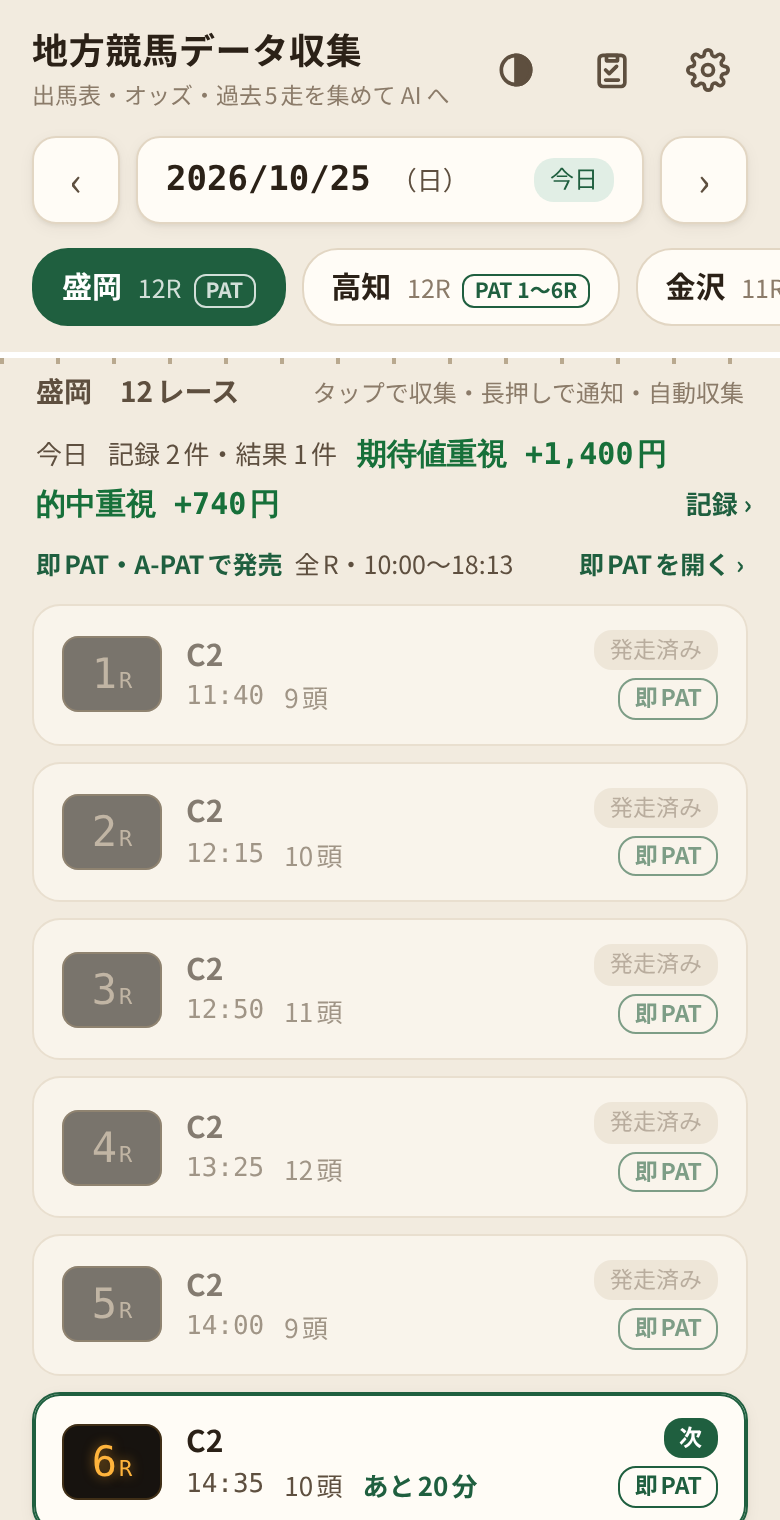
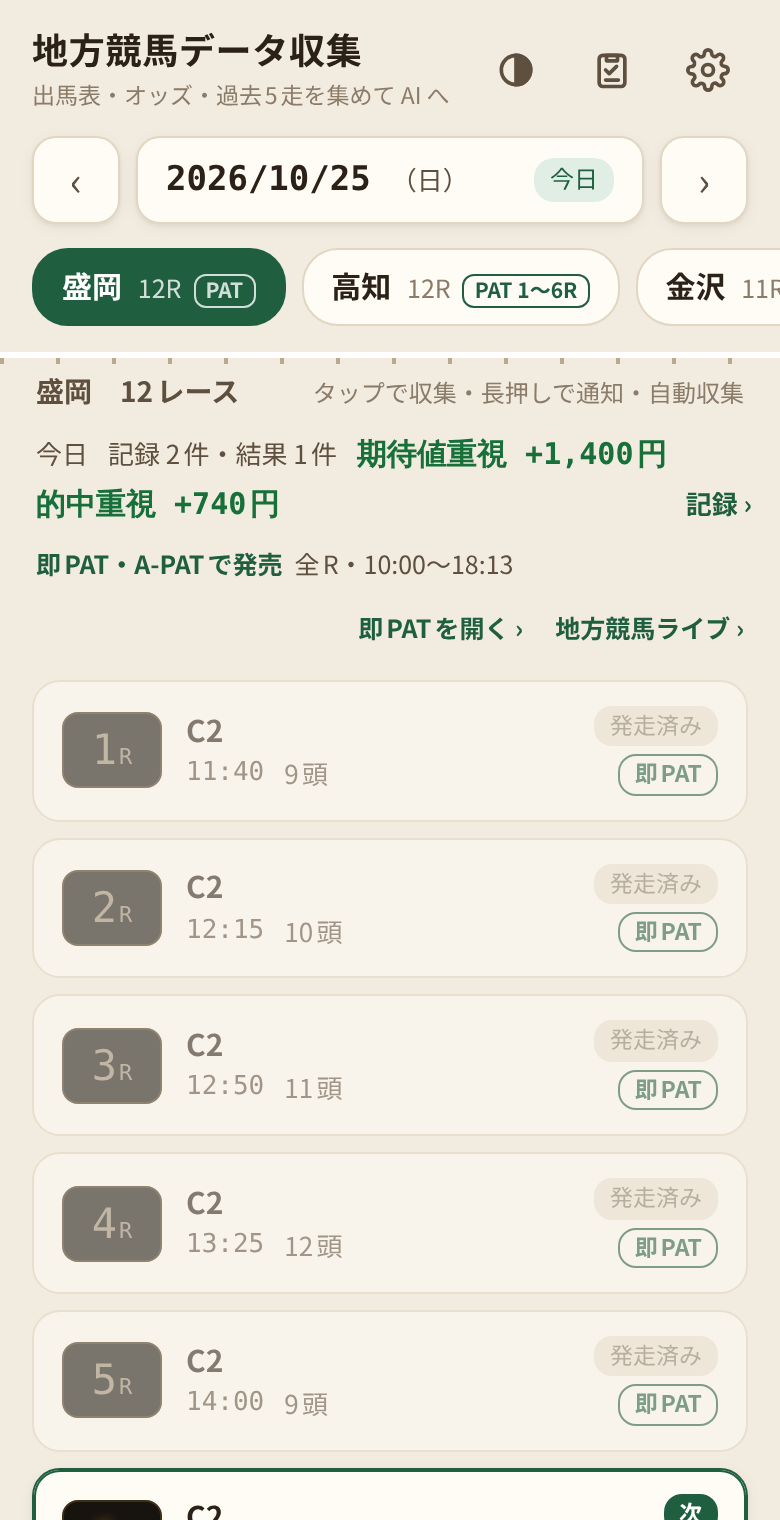
即PATボタンを常に表示・スマホ版URLに変更、地方競馬ライブへのリンクを追加

diff --git a/android/app/src/main/assets/ui.html b/android/app/src/main/assets/ui.html
@@ -293,7 +293,9 @@ table.past td.place { color: var(--accent); font-weight: 700; }
 .venue .pat { font-size: 10.5px; font-weight: 700; margin-left: 6px; padding: 0 5px; border-radius: 6px; border: 1px solid var(--accent); color: var(--accent); }
 .venue[aria-selected="true"] .pat { border-color: var(--accent-ink); color: var(--accent-ink); }
 .pat-line { margin: -2px 2px 10px; font-size: 12.5px; color: var(--ink2); display: flex; flex-wrap: wrap; align-items: baseline; gap: 0 6px; }
-.pat-line .open { margin-left: auto; color: var(--accent); font-weight: 700; white-space: nowrap; }
+.ext-links { margin: -4px 2px 10px; display: flex; justify-content: flex-end; gap: 4px 16px; flex-wrap: wrap; }
+.ext-links button { color: var(--accent); font-weight: 700; font-size: 12.5px; white-space: nowrap; padding: 4px 0; min-height: 32px; }
+.chip.link { border-color: var(--accent); color: var(--accent); font-weight: 700; }
 .send-bar.with-pat { grid-template-columns: 1fr 58px 58px 58px; }
 .pat-line b { color: var(--accent); }
 .pat-line.none { color: var(--muted); }
@@ -634,9 +636,19 @@ function patRace(info, no) {
   if (info.v.from == null) return null;
   return no >= info.v.from && no <= info.v.to;
 }
-// 即PAT・A-PAT で地方競馬を買う入口（地方競馬ネット投票）。レースを指定して開く方法は公開されていないので、入口を開くだけ
-const PAT_URL = "https://n.ipat.jra.go.jp/";
+// 即PAT・A-PAT で地方競馬を買う入口（地方競馬ネット投票）。レースを指定して開く方法は公開されていないので、入口を開くだけ。
+// 即PAT・A-PAT はスマホ版のログイン画面、レース映像は地方競馬ライブ（スマホ版）を開く
+const PAT_URL = "https://n.ipat.jra.go.jp/sp/index.cgi";
+const LIVE_URL = "https://keiba-lv-st.jp/sp/";
 function openPat() { Native.openUrl(PAT_URL); }
+function openLive() { Native.openUrl(LIVE_URL); }
+/** 「即PATを開く ›」「地方競馬ライブ ›」の行（発売の有無が分からなくても出す） */
+function extLinks() {
+  const p = el("p", "ext-links");
+  const a = el("button", null, "即PATを開く ›"); a.onclick = openPat; p.append(a);
+  const b = el("button", null, "地方競馬ライブ ›"); b.onclick = openLive; p.append(b);
+  return p;
+}
 const patRangeText = (v) => (v.all ? "全R" : v.from != null ? `${v.from}〜${v.to}R` : v.text);
 
 // ===== 開催一覧 =====
@@ -767,13 +779,14 @@ function renderRaces() {
   if (pi.status === "sold") {
     const pl = el("p", "pat-line");
     pl.append(el("b", null, `${PAT_KIND[pi.kind]}で発売`), el("span", null, `${patRangeText(pi.v)}${pi.time ? `・${pi.time}` : ""}`));
-    const op = el("button", "open", "即PATを開く ›"); op.onclick = openPat; pl.append(op);
     area.append(pl);
   } else if (pi.status === "none") {
     area.append(el("p", "pat-line none", `この日の${v.name}は、即PAT・A-PAT での発売はありません`));
   } else if (pi.status === "failed") {
     area.append(el("p", "pat-line none", "即PAT・A-PAT の発売カレンダーを読めませんでした（引っ張って読み直せます）"));
   }
+  // 発売カレンダーを読めていなくても、投票とレース映像の入口はいつも出す
+  area.append(extLinks());
 
   const list = el("div", "races");
   v.races.forEach((r, i) => {
@@ -927,6 +940,7 @@ function renderResult() {
   const pi = patInfo(state.date, venue), onPat = patRace(pi, +race.no);
   if (onPat === true) chips.append(el("span", "chip pat", `${PAT_KIND[pi.kind]}で発売`));
   else if (onPat === false) chips.append(el("span", "chip", "即PAT・A-PAT は発売なし"));
+  const live = el("button", "chip link", "地方競馬ライブ ›"); live.onclick = openLive; chips.append(live);
   body.append(chips);
 
   // 発走までの時間と、オッズを取ってからの時間
@@ -1088,8 +1102,8 @@ function renderResult() {
   const pick = el("button", "btn secondary sub"); pick.innerHTML = ICON_PICK; pick.append(document.createTextNode("送り先"));
   pick.onclick = () => Native.share(textFor(res), true);
   bar.append(send, copy, pick);
-  // そのレースを即PAT・A-PAT で売っているときだけ、投票の入口を開くボタンを出す
-  if (patRace(patInfo(state.date, venue), +race.no) === true) {
+  // 投票の入口はいつも出す（発売カレンダーが手元にない・競馬場名が合わないときに消えないように）
+  {
     const pat = el("button", "btn secondary sub");
     pat.innerHTML = '<svg viewBox="0 0 24 24" fill="none" stroke="currentColor" stroke-width="2" stroke-linecap="round" stroke-linejoin="round"><rect x="3" y="6" width="18" height="12" rx="2"/><path d="M8 12h8M13 9l3 3-3 3"/></svg>';
     pat.append(document.createTextNode("即PAT"));

diff --git a/android/README.md b/android/README.md
@@ -29,7 +29,8 @@
   - 競馬場のタブに「PAT」（一部だけなら「PAT 1〜6R」）
   - 一覧の上に「即PAT・A-PATで発売」か「即PATのみで発売」と、範囲・発売時刻
   - 各レースに「即PAT」か「即PAT対象外」。その日その競馬場で売らないときは、一覧の上に「即PAT・A-PAT での発売はありません」と出る
-  - 「即PATを開く ›」で、即PAT・A-PAT の地方競馬の投票画面（地方競馬ネット投票、`https://n.ipat.jra.go.jp/`）をブラウザで開く
+  - 一覧の上の「即PATを開く ›」で、即PAT・A-PAT の地方競馬の投票画面（地方競馬ネット投票のスマホ版、`https://n.ipat.jra.go.jp/sp/index.cgi`）をブラウザで開く。発売カレンダーを読めていない日も出る
+  - 「地方競馬ライブ ›」で、レース映像の地方競馬ライブ（スマホ版、`https://keiba-lv-st.jp/sp/`）をブラウザで開く。結果画面の項目の並び（コース・馬場の横）にもある
 - レースをタップすると収集する。収集済みのレースには「✓ 収集済み」が付き、タップすると取り直さずに結果を開く
 - レースを長押しすると、通知・自動収集を設定できる
 - AI の予想を記録した日は、一覧の上に**今日の収支**（記録した件数・結果が出た件数・収支）が出る。タップで記録の画面へ
@@ -44,7 +45,7 @@
 
 <img src="../docs/screen_result.png" width="220" align="right" alt="結果画面">
 
-- 終わるとテキストがコピーされる。画面の下に「（アプリ名）へ送る」「コピー」「送り先」を固定している。そのレースを即PAT・A-PAT で売っているときは「即PAT」も並び、投票画面をブラウザで開ける（レースを指定して開く方法は公開されていないので、ログインと買い目の入力は開いた画面で行う）
+- 終わるとテキストがコピーされる。画面の下に「（アプリ名）へ送る」「コピー」「送り先」を固定している。「即PAT」もいつも並び、投票画面をブラウザで開ける（レースを指定して開く方法は公開されていないので、ログインと買い目の入力は開いた画面で行う）
 - 「（アプリ名）へ送る」は、最初だけ共有メニューで送り先（Claude など）を選ぶ（選ぶ前は「AIアプリへ送る」）。2回目からはそのアプリへ直接送る。送り先を変えるときは長押しするか「送り先」を押す
 - 発走したら「レース結果を取得」が出る。押すと結果ページを1回読み、着順と払戻を出す（AI の予想や買った馬券を記録していれば、そのまま答え合わせする）。記録していないレースでも取れる。確定前に押したときは「まだ確定していません」と出るので、少したってから押し直す
 - 発走までの時間と、オッズを取ってから何分たったかを出す。発走まで90分を切っていて、オッズを取ってから10分以上たっていると「! オッズを更新」が目立つ色になる（発走後は「取り直す」）
